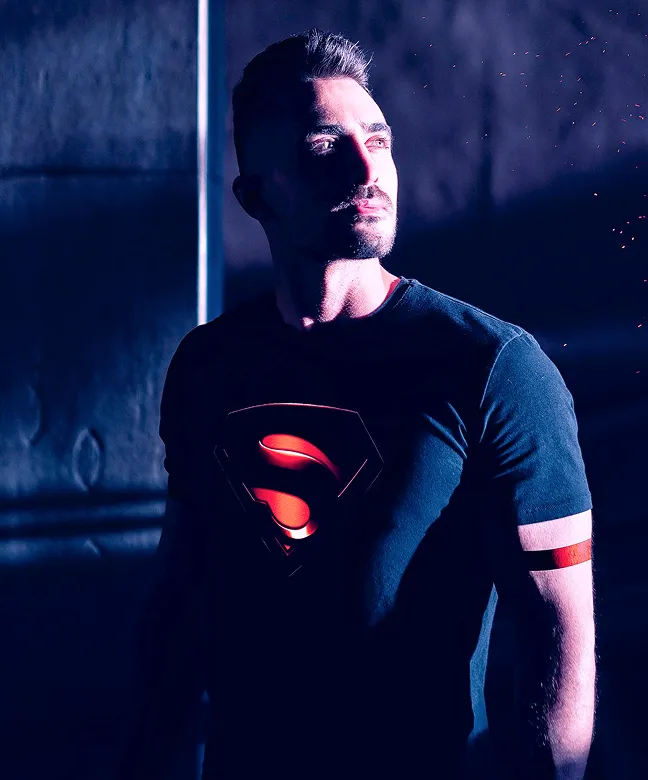
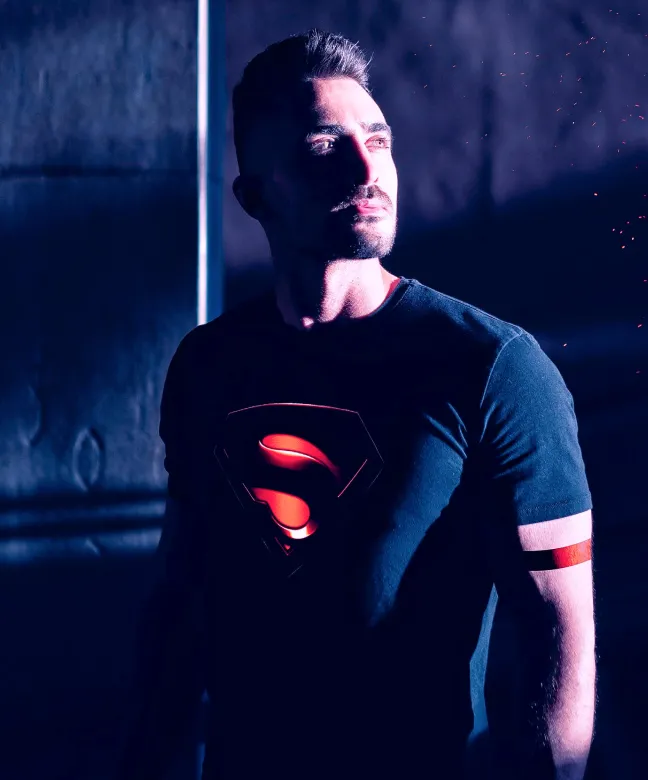
feat: добавляет разметку и изображения в блок about

diff --git a/source/index.html b/source/index.html
@@ -45,13 +45,38 @@
           <picture>
             <source type="image/webp" media="(min-width: 1366px)" srcset="img/hero/hero-img-desktop.webp 1x, img/hero/hero-img-desktop@2x.webp 2x" width="500" height="524">
             <source type="image/webp" media="(min-width: 678px)" srcset="img/hero/hero-img.webp 1x, img/hero/hero-img@2x.webp 2x" width="324" height="390">
-            <source type="image/png" media="(min-width: 1366px)" srcset="img/hero/hero-img-desktop.png 1x, img/hero/hero-img-desktop@2x.png 2x" width="500" height="524">
-            <img src="img/hero/hero-img.png" srcset="img/hero/hero-img@2x.png 2x" width="324" height="390" alt="Фитнес-тренер в футболке Супермена.">
+            <source type="image/jpg" media="(min-width: 1366px)" srcset="img/hero/hero-img-desktop.jpg 1x, img/hero/hero-img-desktop@2x.jpg 2x" width="500" height="524">
+            <img src="img/hero/hero-img.jpg" srcset="img/hero/hero-img@2x.jpg 2x" width="324" height="390" alt="Фитнес-тренер в футболке Супермена.">
           </picture>
         </div>
       </section>
     </div>
-    <main></main>
+    <main>
+      <section class="about">
+        <div class="about__header">
+          <h2 class="about__title">Тренажёрный зал</h2>
+          <p class="about__subtitle">Просторный зал площадью 900 кв/м</p>
+        </div>
+        <div class="about__content">
+          <p>Supergym – самый большой фитнес центр за Уралом и идеальное место для укрепления тела и здоровья. Тренажёрный зал оснащён всем необходимым современным оборудованием для всех спортсменов.</p>
+        </div>
+        <div class="about__media">
+          <div class="about__img">
+            <picture>
+              <source type="image/webp" media="(min-width: 1366px)" srcset="img/about/about-img-desktop.webp 1x, img/about/about-img-desktop@2x.webp 2x" width="660" height="400">
+              <source type="image/webp" media="(min-width: 768px)" srcset="img/about/about-img-tablet.webp 1x, img/about/about-img-tablet@2x.webp 2x" width="678" height="345">
+              <source type="image/webp" media="(min-width: 320px)" srcset="img/about/about-img-mobile.webp 1x, img/about/about-img-mobile@2x.webp 2x" width="320" height="280">
+              <source type="image/jpg" media="(min-width: 1366px)" srcset="img/about/about-img-desktop.jpg 1x, img/about/about-img-desktop@2x.jpg 2x" width="660" height="400">
+              <source type="image/jpg" media="(min-width: 768px)" srcset="img/about/about-img-tablet.jpg 1x, img/about/about-img-tablet@2x.jpg 2x" width="678" height="345">
+              <img src="img/about/about-img-mobile.jpg" srcset="img/about/about-img-mobile@2x.jpg 2x" width="320" height="280" alt="Тренажерный зал с разным оборудованием.">
+            </picture>
+          </div>
+          <div class="about__video">
+            <iframe src="https://www.youtube.com/watch?v=9TZXsZItgdw" frameborder="0" loading="lazy"></iframe>
+          </div>
+        </div>
+      </section>
+    </main>
     <footer>
 
     </footer>
